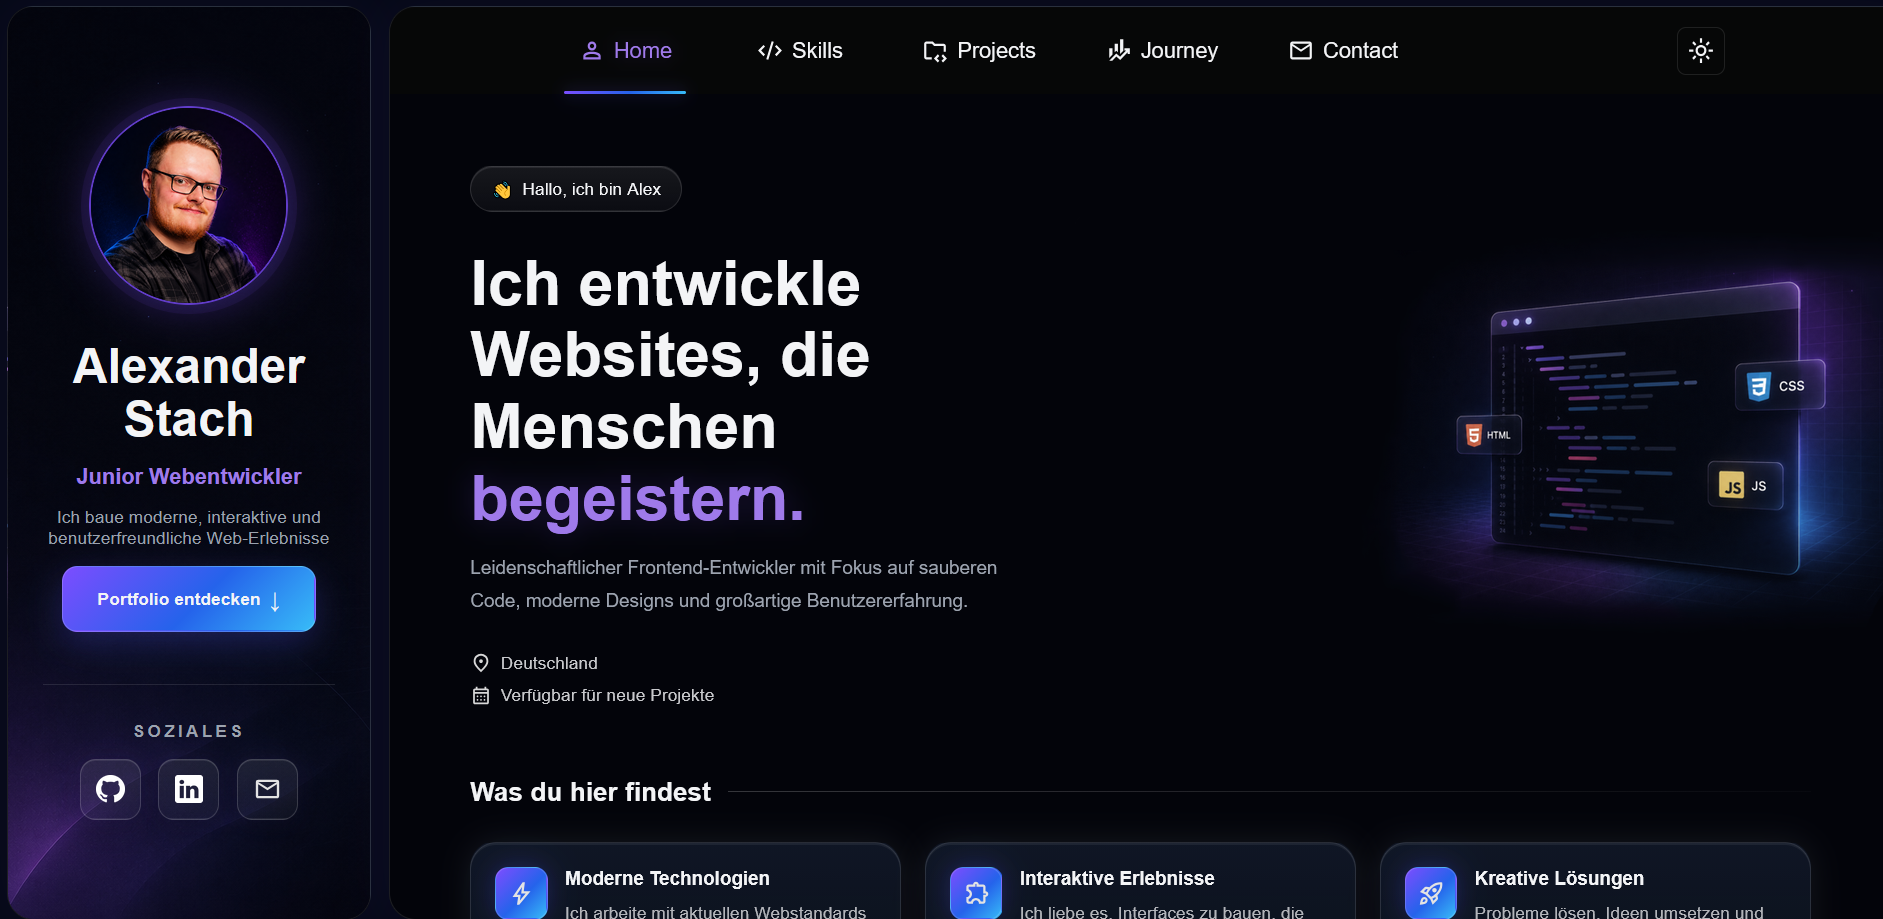
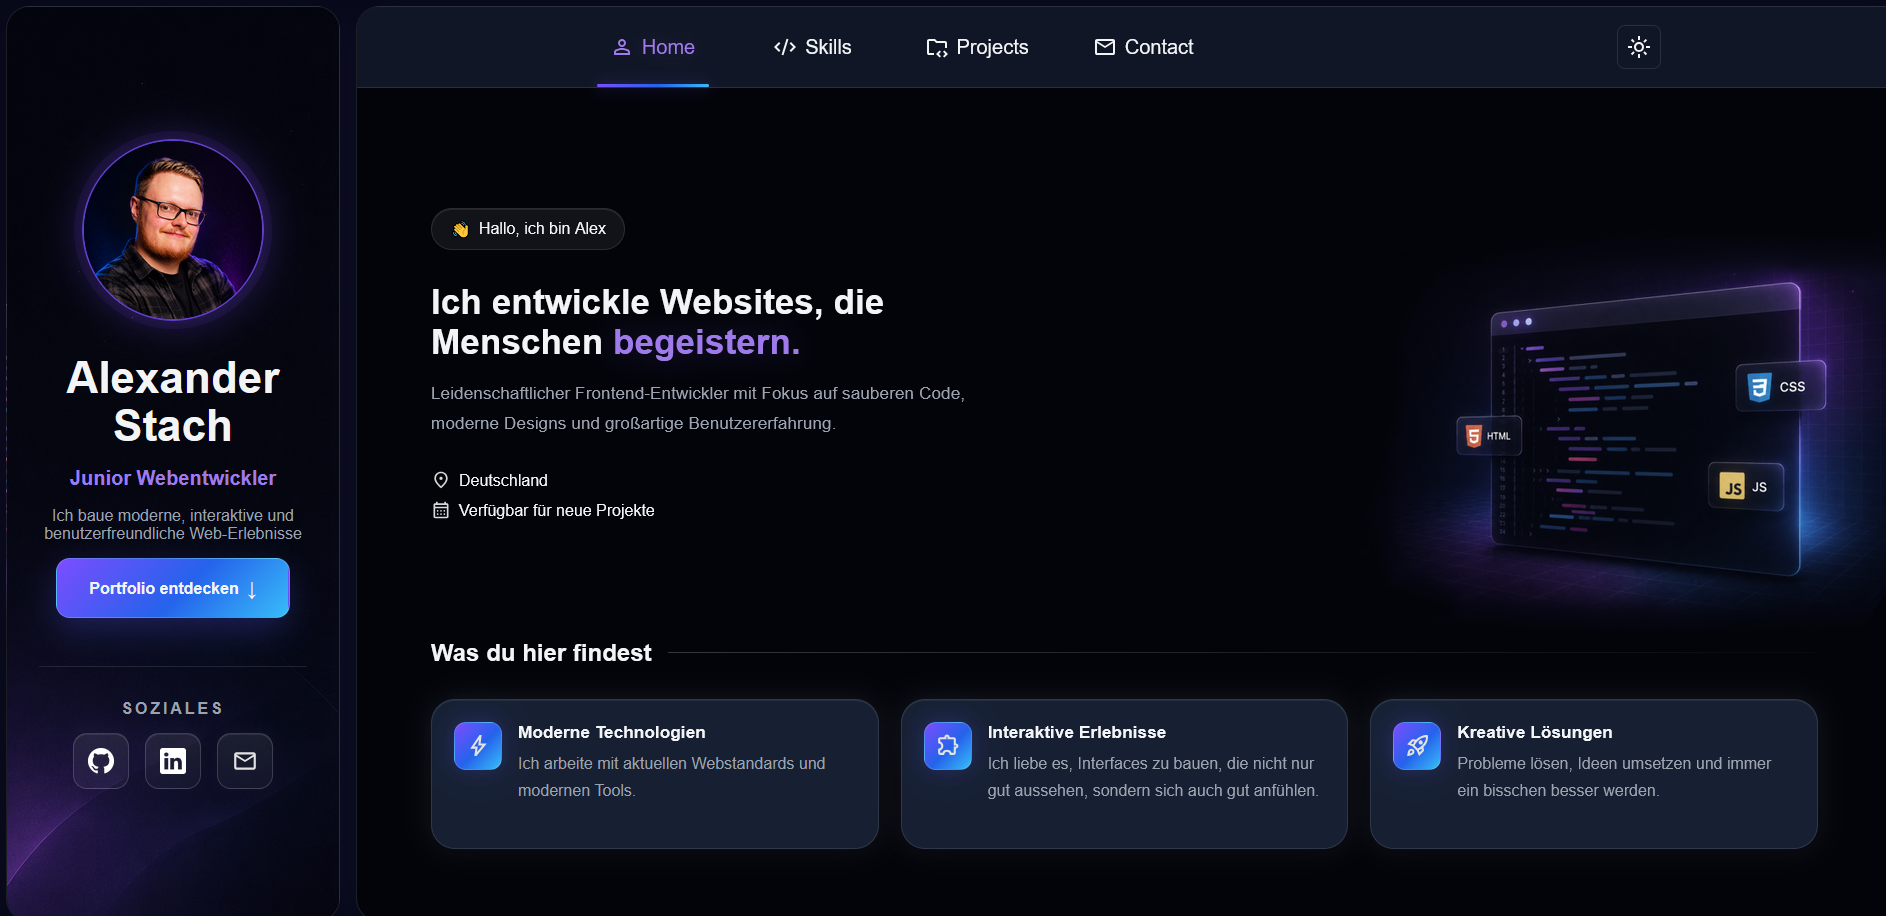
Anpassung der Readme Datei

diff --git a/js/data/projects.js b/js/data/projects.js
@@ -105,9 +105,17 @@ export const projects = [
                 src: "assets/screenshots/Personal_Homepage_Screenshot_3.png",
                 alt: "Projektseite"
             },
-                {
+            {
                 src: "assets/screenshots/Personal_Homepage_Screenshot_4.png",
                 alt: "Mobile Version"
+            },
+            {
+                src: "assets/screenshots/Personal_Homepage_Screenshot_5.png",
+                alt: "Responsive Ansicht"
+            },
+            {
+                src: "assets/screenshots/Personal_Homepage_Screenshot_6.png",
+                alt: "Weitere Projektansicht"
             }
 
         ],

diff --git a/README.md b/README.md
@@ -1,0 +1,58 @@
+
+![Personal Homepage](assets/screenshots/Personal_Homepage_Screenshot_1.png)
+
+# Personal Homepage
+
+Die **Personal Homepage** ist die persönliche Portfolio-Website von Alexander Stach. Sie präsentiert den beruflichen Schwerpunkt als Frontend- und Softwareentwickler und gibt einen kompakten Überblick über Projekte, Fähigkeiten und Kontaktmöglichkeiten.
+
+## Zweck
+
+Die Website dient als zentrale digitale Visitenkarte und Portfolio. Interessierte können sich über bisherige private und berufliche Projekte, eingesetzte Technologien sowie den persönlichen Werdegang informieren und direkt Kontakt aufnehmen.
+
+## Highlights
+
+- Moderne, responsive Portfolio-Oberfläche für Desktop und mobile Geräte
+- Übersichtliche Bereiche für Startseite, Projekte, Skills und Kontakt
+- Dynamische Darstellung von Projekten und Technologien
+- Projekt- und Skill-Details in interaktiven Modalfenstern
+- Screenshot-Karussell für Projektansichten
+- Kategorien und Tabs zur schnellen Filterung der Inhalte
+- Kontaktformular mit clientseitiger Validierung
+- SEO-Grundlagen mit Meta-Tags, Open Graph, Sitemap und `robots.txt`
+- Deployment als statische Website, unter anderem für GitHub Pages geeignet
+
+## Technologien
+
+- **HTML5** für die semantische Struktur der Seiten
+- **CSS3** für Layout, responsive Design, Komponenten und Animationen
+- **JavaScript (ES Modules)** für Navigation, Datenverarbeitung und Interaktionen
+- **JSON** als Datenbasis für Projekte, Skills und weitere Inhalte
+- **Node.js** als vorbereitete Backend-Struktur
+- **GitHub Pages** für die Veröffentlichung der statischen Website
+
+## Projektstruktur
+
+```text
+├── assets/      Bilder, Screenshots und Icons
+├── backend/     Backend-Struktur
+├── css/         Globale, komponenten- und seitenspezifische Styles
+├── data/        JSON-Daten für Projekte und Inhalte
+├── html/        Wiederverwendbare HTML-Komponenten
+├── js/          Module, Komponenten und Seitenskripte
+├── *.html       Die einzelnen Seiten der Website
+└── README.md    Projektdokumentation
+```
+
+## Screenshots
+
+![Personal Homepage Screenshot 1](assets/screenshots/Personal_Homepage_Screenshot_1.png)
+
+![Personal Homepage Screenshot 2](assets/screenshots/Personal_Homepage_Screenshot_2.png)
+
+![Personal Homepage Screenshot 3](assets/screenshots/Personal_Homepage_Screenshot_3.png)
+
+![Personal Homepage Screenshot 4](assets/screenshots/Personal_Homepage_Screenshot_4.png)
+
+![Personal Homepage Screenshot 5](assets/screenshots/Personal_Homepage_Screenshot_5.png)
+
+![Personal Homepage Screenshot 6](assets/screenshots/Personal_Homepage_Screenshot_6.png)
